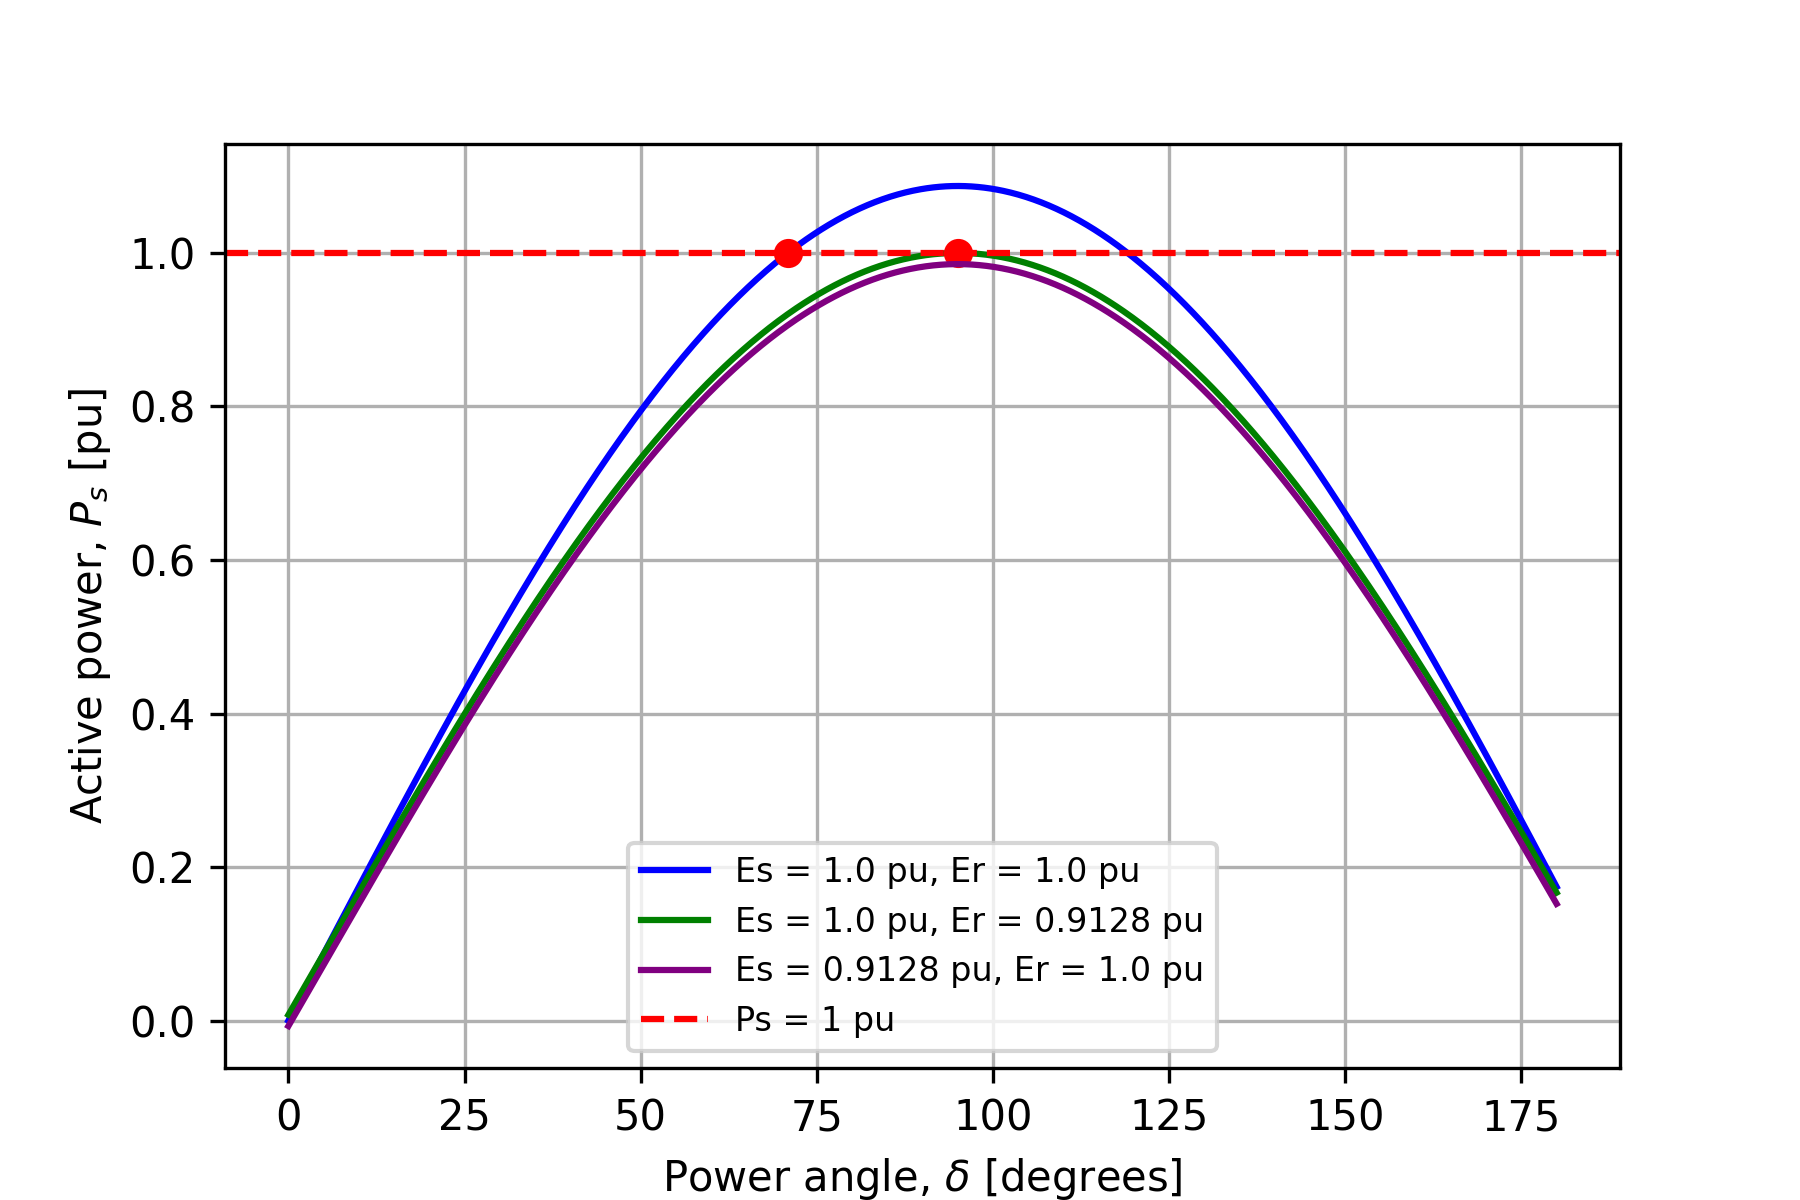
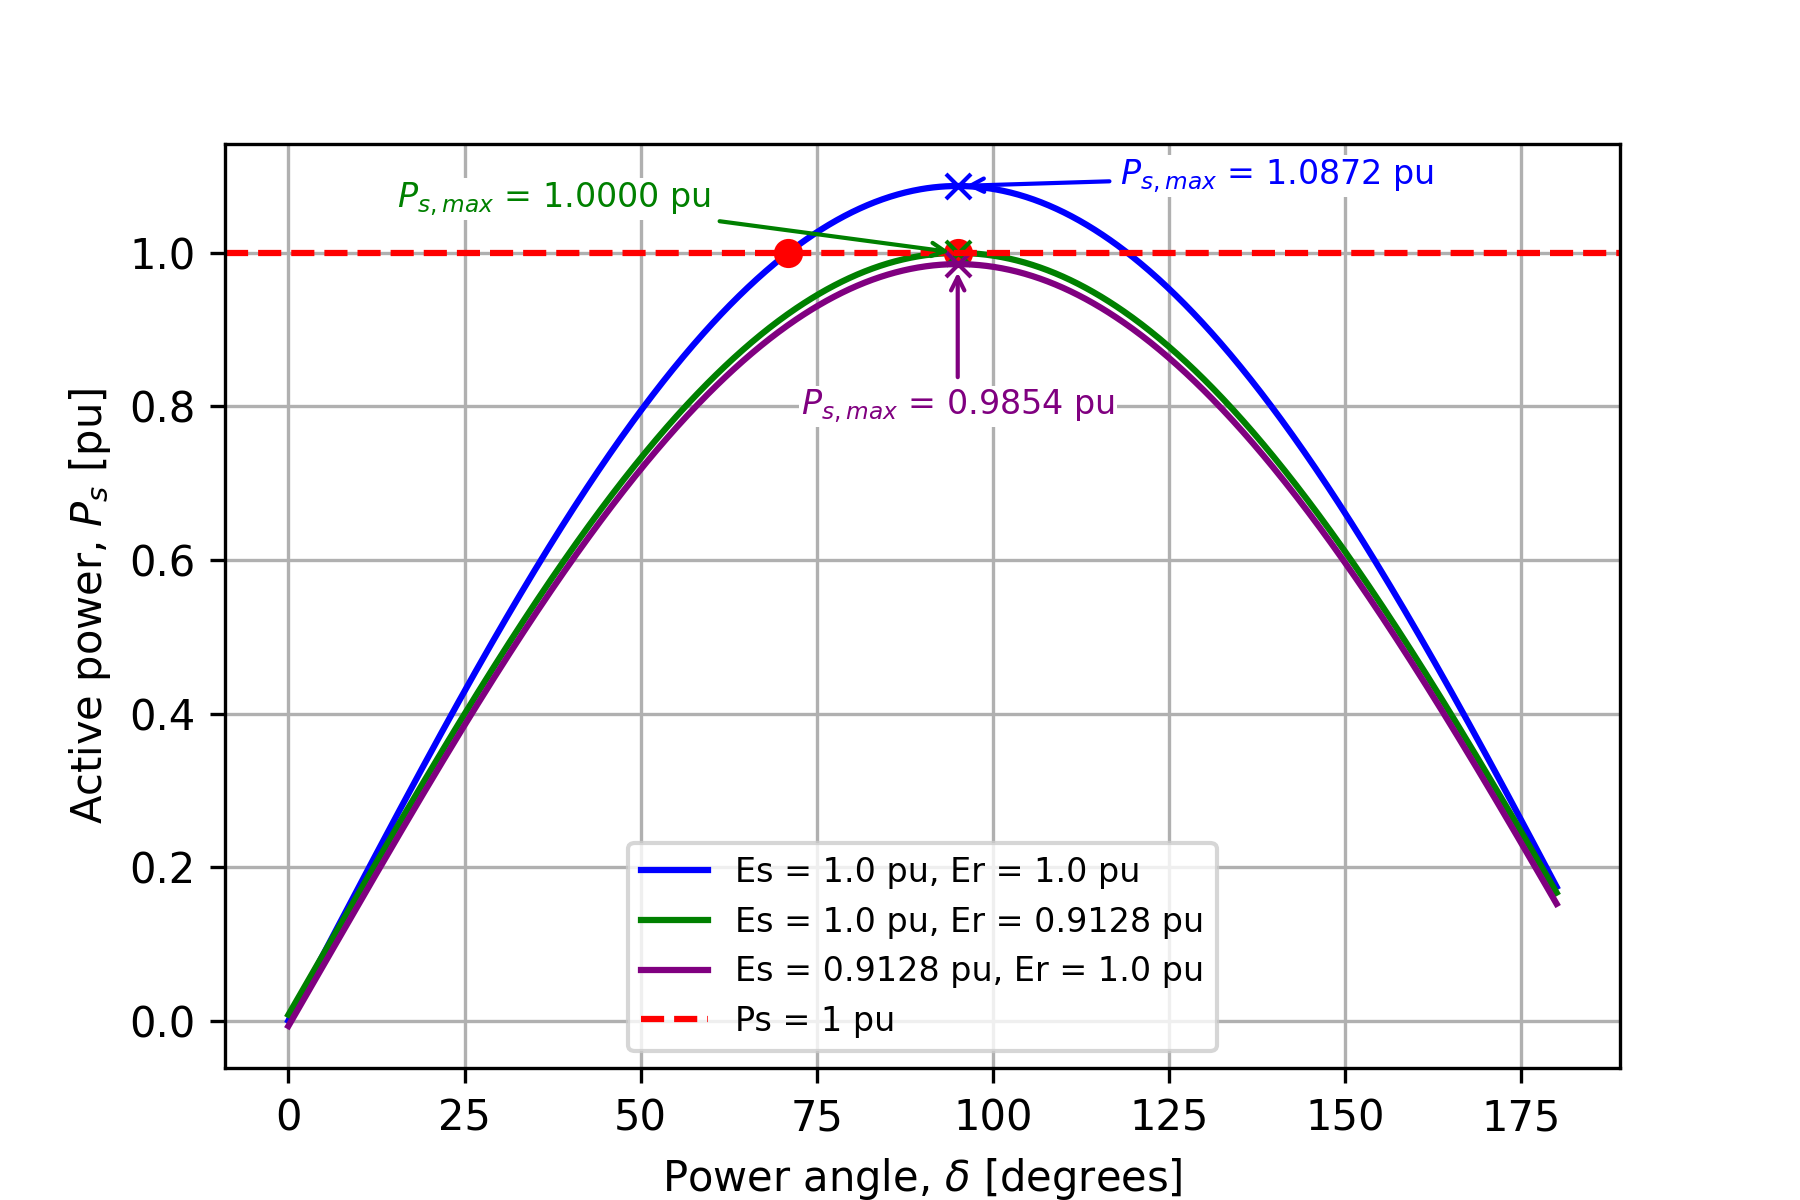
Improve P-delta plotting in PV bus scenario

diff --git a/assignment2.2.py b/assignment2.2.py
@@ -210,20 +210,33 @@ delta = np.deg2rad(np.linspace(0, 180, 1000))
 
 plt.figure(figsize = (6,4))
 
+# positions of the Ps,max labels on the figure (delta in degrees, Ps in pu), spread out since all peaks are at the same delta
+text_pos = [(118, 1.10), (60, 1.07), (95, 0.80)]
+text_ha = ["left", "right", "center"]
+
 for i in range(3):
     Es, Er = Es_values[i], Er_values[i]
     P_delta = Es**2 * np.cos(theta) / Z - Es * Er * np.cos(theta + delta) / Z
+    Ps_max = Es**2 * np.cos(theta) / Z + Es * Er / Z
     plt.plot(np.rad2deg(delta), P_delta, color = colors[i], label = f"Es = {Es} pu, Er = {Er} pu")
 
     # mark the intersection with Ps = 1 pu on the rising side of the curve (the solution found by the power flow)
     # the curve counts as reaching Ps if Ps,max is within the power flow tolerance of Ps
-    Ps_max = Es**2 * np.cos(theta) / Z + Es * Er / Z
     if Ps_max >= Ps - err_tol:
         delta_op = np.arccos(np.clip((Es**2 * np.cos(theta) - Ps * Z) / (Es * Er), -1, 1)) - theta
         plt.plot(np.rad2deg(delta_op), Ps, "o", color = "red")
 
+    # mark Ps,max at the top of the curve, where theta + delta = 180 degrees, and label it with an arrow
+    delta_max = np.rad2deg(np.pi - theta)
+    plt.plot(delta_max, Ps_max, "x", color = colors[i])
+    plt.annotate(f"$P_{{s,max}}$ = {Ps_max:.4f} pu", (delta_max, Ps_max), xytext = text_pos[i],
+                 ha = text_ha[i], va = "center", fontsize = 8, color = colors[i],
+                 bbox = dict(fc = "white", ec = "none", pad = 0.5),
+                 arrowprops = dict(arrowstyle = "->", color = colors[i]))
+
 # plot the value of Ps as a horizontal line
 plt.axhline(Ps, color = "red", linestyle = "--", label = "Ps = 1 pu")
+
 plt.xlabel(r"Power angle, $\delta$ [degrees]")
 plt.ylabel(r"Active power, $P_s$ [pu]")
 plt.grid(True)
